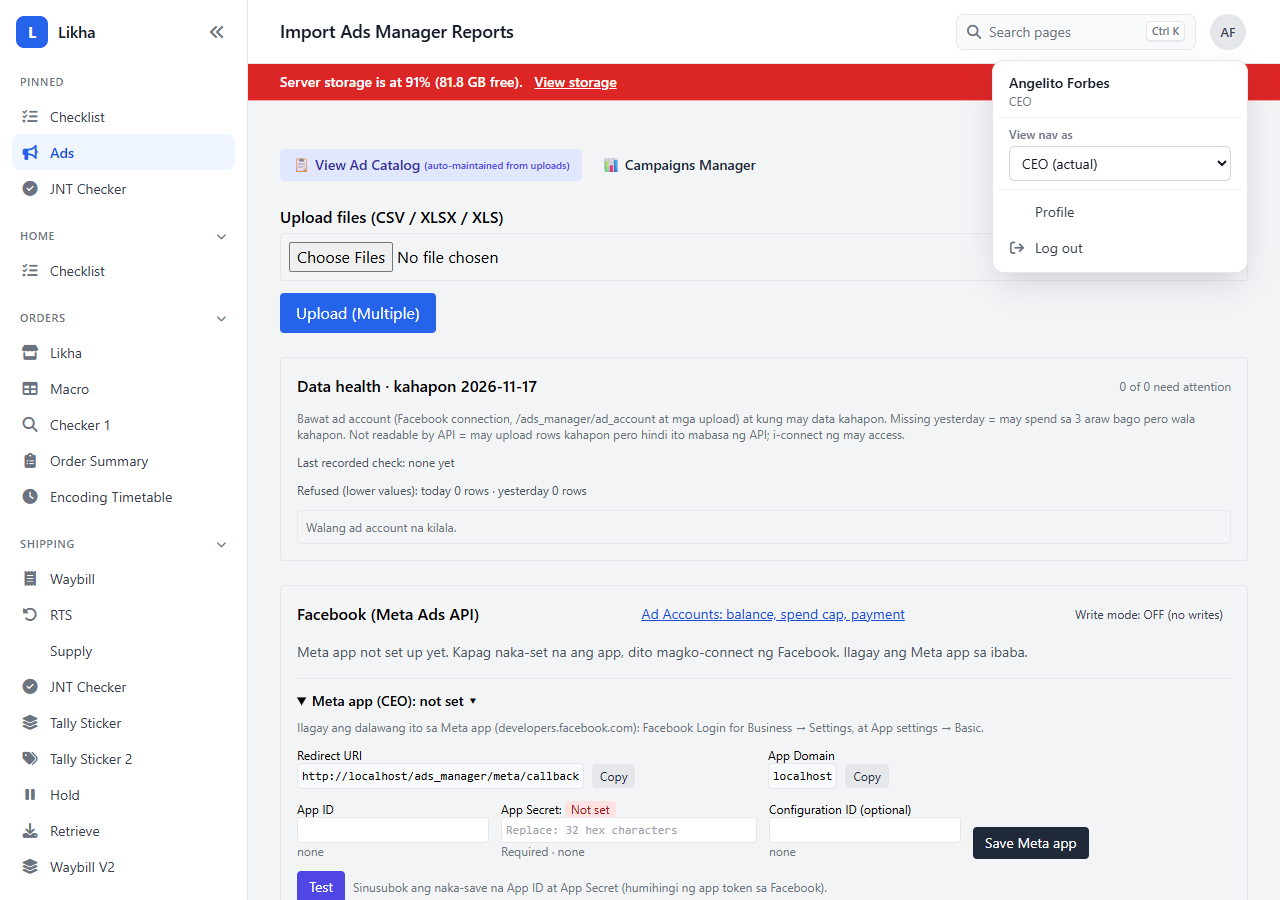
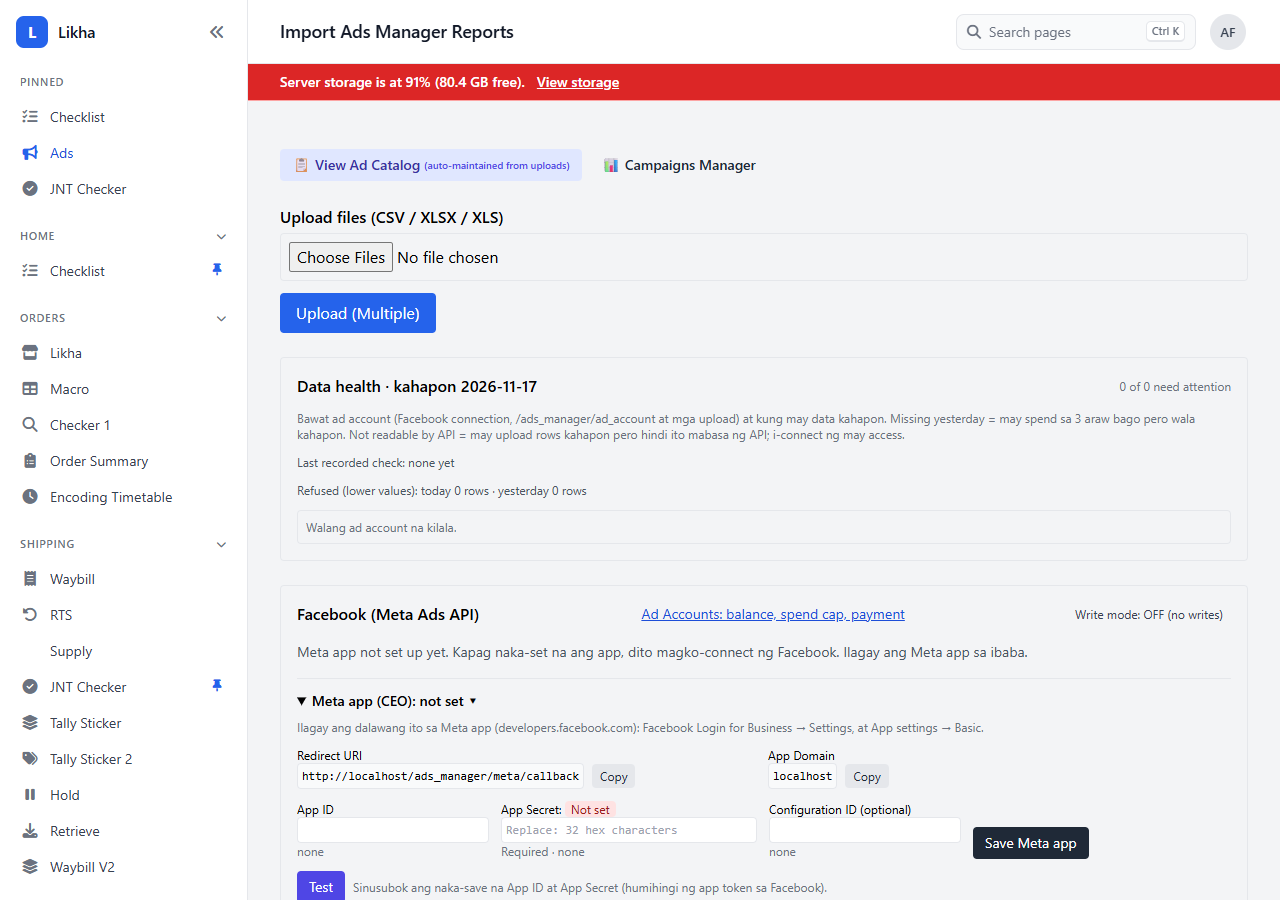
fix(nav): audit fixes: pin hit area and contrast, pinned state, rail tab stops, inert page behind drawer, touch targets; critique and audit notes (295)

diff --git a/resources/views/components/layout.blade.php b/resources/views/components/layout.blade.php
@@ -91,10 +91,11 @@
     .lk-dot.is-red { background: #dc2626; } .lk-dot.is-neutral { background: var(--lk-faint); } .lk-dot.is-team { background: #f97316; }
     /* Pin: shows on row hover and keyboard focus; always shown when on. A link with a badge keeps its badge visible. */
     .lk-pin { position: absolute; top: .25rem; right: .25rem; display: grid; place-items: center; width: 1.75rem; height: 1.75rem;
-      border-radius: .375rem; color: var(--lk-faint); background: var(--lk-hover); opacity: 0; font-size: .75rem; transition: opacity .15s, color .15s; }
-    .lk-row:hover .lk-pin, .lk-pin:focus-visible { opacity: 1; }
+      border-radius: .375rem; color: var(--lk-muted); background: var(--lk-hover); opacity: 0; pointer-events: none; font-size: .75rem; transition: opacity .15s, color .15s; }
+    .lk-row:hover .lk-pin, .lk-pin:focus-visible { opacity: 1; pointer-events: auto; }
+    .lk-section:not(.lk-pinned) .lk-pin.is-on { opacity: 1; pointer-events: auto; background: transparent; }
     .lk-row.has-pin .lk-link { padding-right: 2.25rem; }
-    @media (hover: none) { .lk-pin { opacity: 1; background: transparent; color: #d1d5db; } .lk-pin.is-on { color: var(--lk-accent); } }
+    @media (hover: none) { .lk-pin { opacity: 1; pointer-events: auto; background: transparent; color: var(--lk-faint); } .lk-pin.is-on { color: var(--lk-accent); } }
     .lk-pin:hover { color: var(--lk-accent); }
     .lk-pin.is-on { color: var(--lk-accent); }
     .lk-pinned .lk-pin { background: transparent; }
@@ -149,6 +150,7 @@
     .lk-pal-opt { display: flex; align-items: center; gap: .75rem; height: 2.5rem; padding: 0 .625rem; border-radius: .5rem; font-size: .875rem; color: var(--lk-text); }
     .lk-pal-opt.is-sel { background: var(--lk-accent-soft); color: var(--lk-accent-ink); }
     .lk-pal-opt.is-sel .lk-icon { color: var(--lk-accent); }
+    .lk-pal-opt.is-sel .lk-pal-section { color: #4b5563; }
     .lk-pal-label { flex: 1; min-width: 0; overflow: hidden; white-space: nowrap; text-overflow: ellipsis; }
     .lk-pal-section { flex-shrink: 0; font-size: .75rem; color: var(--lk-muted); }
     .lk-pal-empty { padding: 2rem 1rem; text-align: center; font-size: .875rem; color: var(--lk-muted); }
@@ -192,6 +194,12 @@
     html[data-nav-closed~="{{ $sectionName }}"] [data-section-body="{{ $sectionName }}"] { display: none; }
     html[data-nav-closed~="{{ $sectionName }}"] [data-nav-toggle="{{ $sectionName }}"] .lk-chevron { transform: rotate(-90deg); }
     @endforeach
+    /* Touch screens: 44 px targets for the bar and sidebar buttons. */
+    @media (pointer: coarse) {
+      .lk-iconbtn, .lk-search { min-width: 2.75rem; height: 2.75rem; }
+      .lk-pin { width: 2.25rem; height: 2.25rem; top: 0; }
+      .lk-link { height: 2.5rem; }
+    }
     @media (prefers-reduced-motion: reduce) {
       .lk-sidebar, .lk-scrim, .lk-topbar, .lk-main, .lk-chevron, .lk-pal, .lk-pal-scrim, .lk-menu { transition: none !important; }
     }

diff --git a/resources/views/components/sidebar.blade.php b/resources/views/components/sidebar.blade.php
@@ -186,6 +186,12 @@
       railBtn.setAttribute('aria-pressed', String(on));
       railBtn.setAttribute('aria-label', on ? 'Expand sidebar' : 'Collapse sidebar');
       railBtn.setAttribute('data-nav-tip', on ? 'Expand sidebar' : '');
+      // In the rail the section headers are only hairlines: out of the tab order and hidden from screen readers.
+      const rail = on && desktop();
+      document.querySelectorAll('[data-nav-toggle]').forEach(b => {
+        rail ? b.setAttribute('tabindex', '-1') : b.removeAttribute('tabindex');
+        rail ? b.setAttribute('aria-hidden', 'true') : b.removeAttribute('aria-hidden');
+      });
     };
     railBtn.addEventListener('click', () => {
       html.toggleAttribute('data-nav-rail');
@@ -194,20 +200,24 @@
       tip.hidden = true;
     });
     syncRail();
+    window.matchMedia('(min-width: 1024px)').addEventListener('change', syncRail);
 
     // Drawer below 1024 px: focus moves in, Esc / scrim / close button / a link closes it, focus returns.
     const sidebar = document.getElementById('likha-sidebar');
     let opener = null;
+    const behind = () => document.querySelectorAll('.lk-main, .lk-topbar');
     window.likhaDrawer = {
       open(from) {
         opener = from || null;
         html.setAttribute('data-nav-drawer', '');
+        behind().forEach(el => { el.inert = true; });
         document.querySelectorAll('[data-nav-drawer-open]').forEach(b => b.setAttribute('aria-expanded', 'true'));
         sidebar.querySelector('.lk-drawer-close').focus();
       },
       close() {
         if (!html.hasAttribute('data-nav-drawer')) return;
         html.removeAttribute('data-nav-drawer');
+        behind().forEach(el => { el.inert = false; });
         document.querySelectorAll('[data-nav-drawer-open]').forEach(b => b.setAttribute('aria-expanded', 'false'));
         if (opener) opener.focus();
       },

diff --git a/docs/design/295-sidebar-nav/brief.md b/docs/design/295-sidebar-nav/brief.md
@@ -80,3 +80,37 @@ Refused: the dark admin-template sidebar with coloured icon tiles; an accent str
 ## 6. Constraints
 
 Tailwind Play CDN as loaded today (classes it generates, arbitrary values allowed), Alpine as loaded today, Font Awesome 6.5 icons, system sans. AA contrast: gray-500 on white is 4.8:1 for section labels; gray-700 labels; blue-700 on blue-50 for active (8.6:1). Visible focus: 2 px blue-600 ring with 2 px offset on every control. Every control reachable by keyboard; the drawer and palette trap focus while open and return it. Motion: 150-200 ms ease-out on drawer slide, rail width and palette fade only; `prefers-reduced-motion` turns them off. No new fonts, no new libraries.
+
+---
+
+## 7. Critique and audit (after the build) and what was fixed
+
+Run as impeccable prescribes: two isolated reviewers, A (design review, no detector) and B (detector + rendered checks in headless Chrome against the local server, as CEO and Data Encoder). Detector (`impeccable detect --json` on the four changed templates): **0 findings**. Critique score **28/40** (Good); audit score **14/20** (Good). After-shots in this folder are the fixed state.
+
+| # | Finding (source) | Sev | Fix |
+|---|---|---|---|
+| 1 | Palette search row squashed to ~20 px when the list is long (A) | P1 | `flex-shrink: 0` on the search row and footer |
+| 2 | Recent opened on the current page, so Ctrl+K → Enter did nothing (A) | P1 | Recent leaves out the page you are on |
+| 3 | Invisible pin buttons caught taps at the right of every row; no hover on touch (A, B) | P1 | Pin takes no pointer events while hidden; shown at low emphasis on `hover: none`; rows reserve a pin lane so it never covers a badge |
+| 4 | A pinned link showed no pinned state in its section (B) | P2 | Pins that are on stay visible (blue) |
+| 5 | Current page filled twice when pinned; a closed section hid where you are (A) | P2 | Pinned copy gets a quieter blue text/icon only; a section holding the current page has a blue header |
+| 6 | Double 64 px gap on checklist-style pages when the storage banner shows (A) | P2 | Banner pulls the page's own offset back (`-mb-16`) on those pages |
+| 7 | Rail: 9 section buttons still tabbable as 12 px hairlines (B) | P2 | Out of tab order and `aria-hidden` while in the rail |
+| 8 | Drawer not modal for screen readers (B) | P2 | Page and top bar `inert` while the drawer is open |
+| 9 | Pin icon 2.31:1 on its hover chip (B) | P2 | gray-500 (≥ 3:1) |
+| 10 | Avatar `role="menu"` holding a form and a select, no arrow keys (A) | P3 | Plain disclosure (`aria-expanded`/`aria-controls`) |
+| 11 | Profile icon blank (`fa-regular fa-user`) (A) | P3 | `fa-solid fa-user` |
+| 12 | Palette and menu fades not covered by reduced motion (A) | P3 | Added to the reduced-motion rule |
+| 13 | Selected palette row's section text 4.44:1 (B) | P3 | gray-600 |
+| 14 | 36 px buttons under the 44 px touch guideline (B) | P3 | 44 px buttons and 40 px rows on `pointer: coarse` |
+| 15 | Six-pin limit only in a `title` (A) | P3 | Visible note under Pinned at six |
+| 16 | Search not ranked (A) | P3 | Label-prefix matches first, then label, then section/url |
+| 17 | Palette at 12vh, brief says 15vh (A) | P3 | 15vh |
+
+Not fixed, with reason:
+- "Supply" shows no icon: its stored class `fa-boxes-stacking` does not exist in Font Awesome 6.5 (should be `fa-boxes-stacked`). It is data in production `nav_links`, blank before this work too; the owner can change it, or a later spec can (this one does not rename or edit links).
+- Link labels that differ from page titles ("Ads" → "Import Ads Manager Reports", "Waybill" → "UPDATE FROM JNT") and cryptic labels ("MES SEG", "IP", "Checker 1"): renaming links is out of scope; the nav now makes them visible, which helps the owner choose later.
+- Near-duplicate links (Waybill / Waybill V2, Tally Sticker / Tally Sticker 2): kept by the spec's decision.
+- Each pin button is its own tab stop (B, P3): kept; it is what makes pinning reachable by keyboard.
+- Dashboard shows two h1s (bar + the page's own "Welcome"): the old layout had the same; only own-header pages are listed.
+- Not verified headless: pin drag on touch, real screen-reader output, the pin-save failure path, mouse-hover tooltips (focus tooltips verified).
